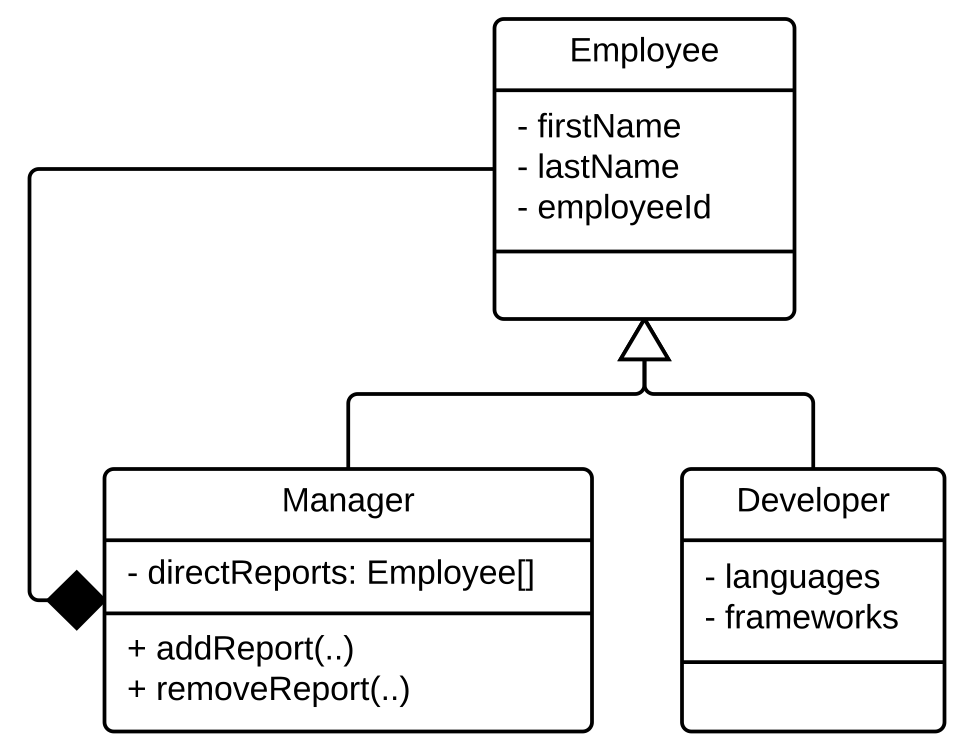
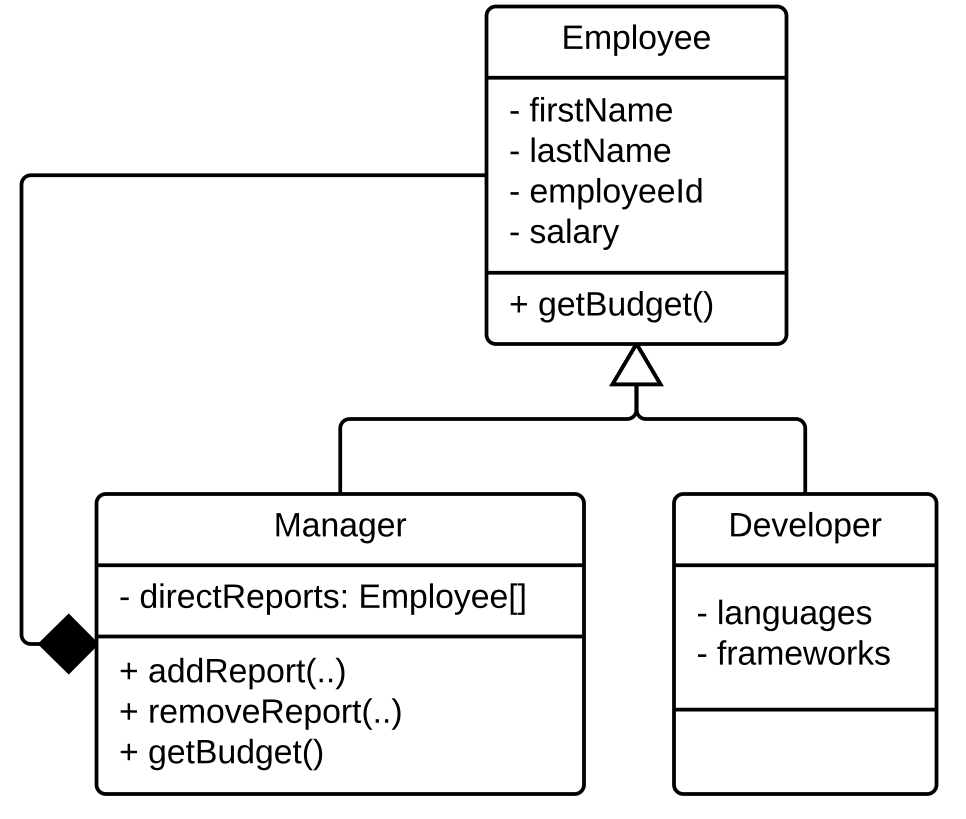
composite

Changed region(s): [[0.0, 0.0, 0.9938, 0.9787]]

diff --git a/readings/Patterns.md b/readings/Patterns.md
@@ -178,13 +178,48 @@ Ultimately the decorator pattern provides excellent support for maintaining the 
 
 ### Composite
 
-It is common practice for XXX
+Composites provide a mechanism for treating groups of objects the same as individual objects (often known as part-whole hierarchies). Systems often start with individual objects, but over time gain the ability to group objects together. Adding logic to differentiate individual objects from group objects adds unnecessary complexity to code. The composite pattern, through the composite (```Manager``` in the example below) uses composition to maintain a list of children while still itself being the parent component type (```Empoyee``` below). 
+
+The introduction of the composite  means any client can treat both managers and developers as employees (e.g., by asking for their names or ids uniformly), whether they have reports or not. This frees client code from checking if the ```Employee``` reference they have is a ```Manager``` or a ```Developer```, and enabling ```Manager``s to appropriately traverse all of their reports appropriately.
+
+<img src="./figures/patterns_composite-example.png" width="320px" alt="composite diagram">
+
+In the example below, the default implementation of ```Employee::getBudget()``` would just be:
+
+```
+	public getBudget():number {
+		return this.salary;
+	}
+```
+
+But the implementation of ```Manager::getBudget()``` would be:
+
+```
+	public getBudget():number {
+		var budget = this.salary;
+		for (var report: this.directReports) {
+			budget += report.getBudget();
+		}
+		return budget;
+	}
+```
+
+But to the client whether an employee is a ```Manager``` or ```Developer``` would be totally transparent.
+
+```
+	// employee 1233 has no reports
+	var e1 = getEmployee(1233);
+	Log.info(e1.getBudget());
+	
+	// employee 1234 has 4 direct and 35 indirect reports
+	var e2 = getEmployee(1234);
+	Log.info(e2.getBudget());
+```
 
 <!--
 <img src="./figures/patterns-composite.png" width="512px" alt="composite diagram">
 -->
 
-<img src="./figures/patterns_composite-example.png" width="320px" alt="composite diagram">
 
 ### Visitor
 
